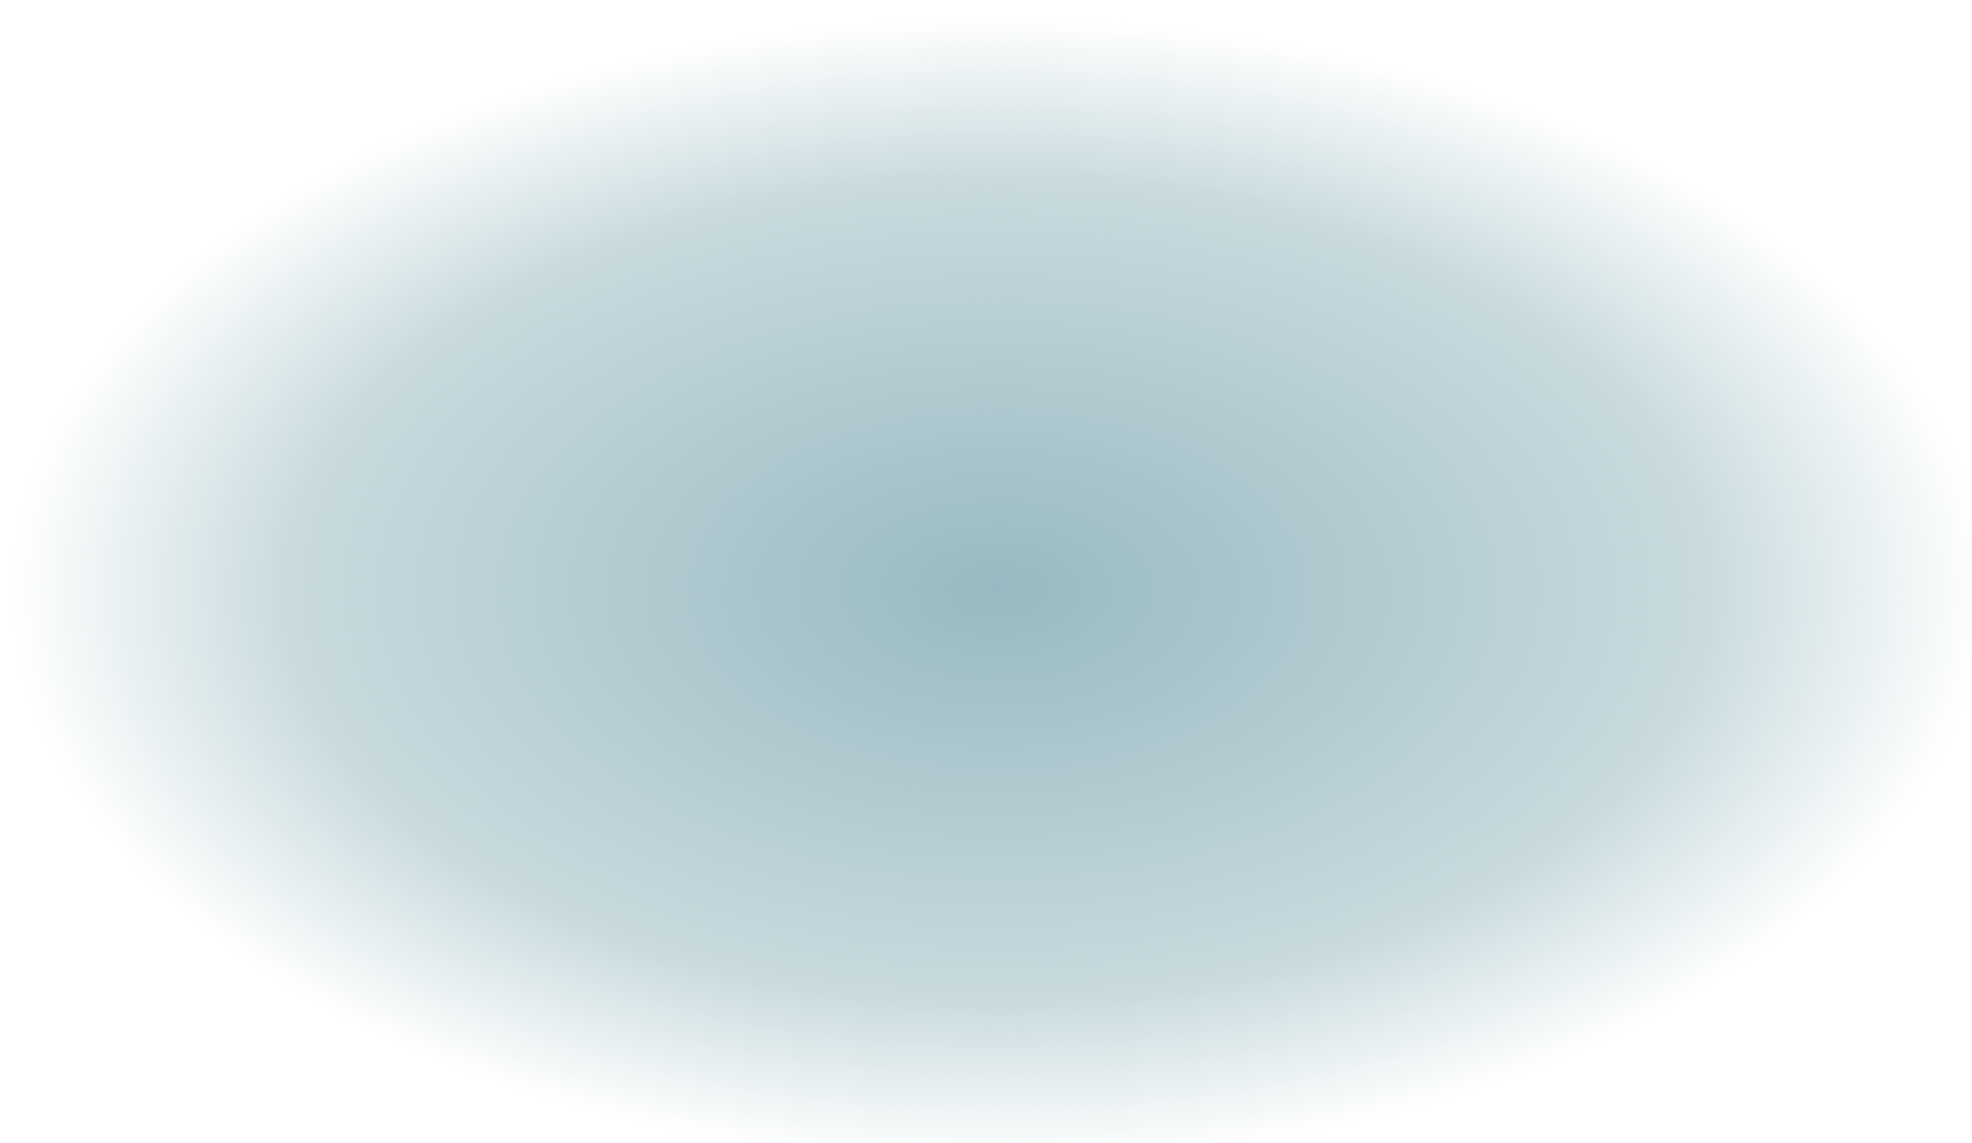
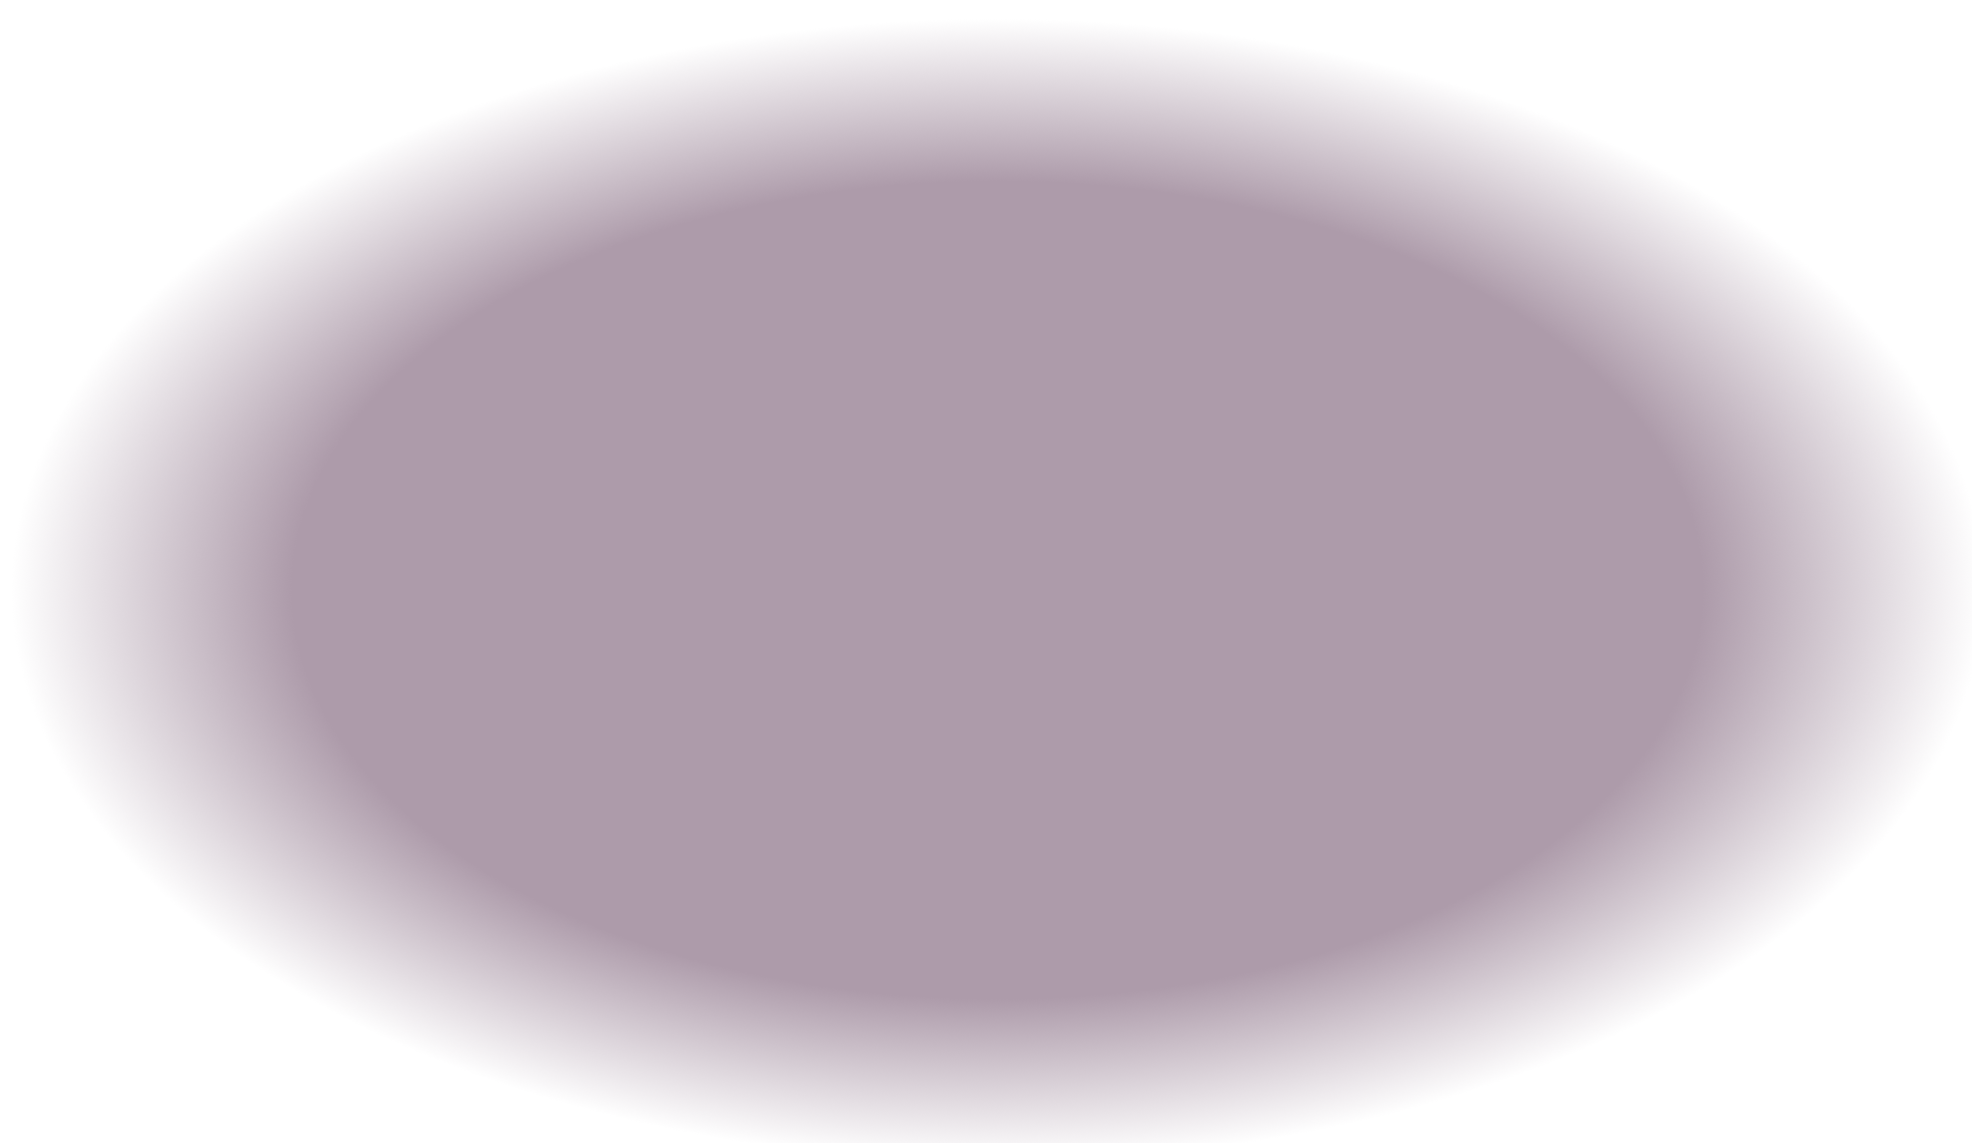
Ajuste da cor de fundo

diff --git a/src/scenes/Game.ts b/src/scenes/Game.ts
@@ -48,7 +48,7 @@ export default class Game extends Scene {
     this.load.image('block', `assets/ct/obstacle_orange_${this.mode}.png`);
     this.load.image('message_box', 'assets/ct/message.png');
     this.load.image('intention_comamnd', 'assets/ct/intention_comamnd.png');
-    this.load.image('tutorial-block-click-background', 'assets/ct/tutorial-block-click-background.png');
+    //this.load.image('tutorial-block-click-background', 'assets/ct/tutorial-block-click-background.png');
     this.load.spritesheet('giroleft', 'assets/ct/giro_left.png', { frameWidth: 100, frameHeight: 100 });
     this.load.spritesheet('giroright', 'assets/ct/giro_right.png', { frameWidth: 100, frameHeight: 100 });
     this.load.spritesheet('btn-play', 'assets/ct/btn_play.png', { frameWidth: 100, frameHeight: 100 });

diff --git a/index.html b/index.html
@@ -10,7 +10,7 @@
 
   body {
     text-align: center;
-    background: #4f9eaefb;
+    background: rgb(171, 136, 166);
     /* background: radial-gradient(#cdc687, #b97a51); */
     margin: 0;
   }
@@ -18,7 +18,7 @@
 
 <head>
   <meta charset="UTF-8">
-  <title>CT Puzzle</title>
+  <title>Arrastar</title>
   <meta name="viewport" content="width=device-width, initial-scale=1.0">
   <meta name="mobile-web-app-capable" content="yes">
 </head>
